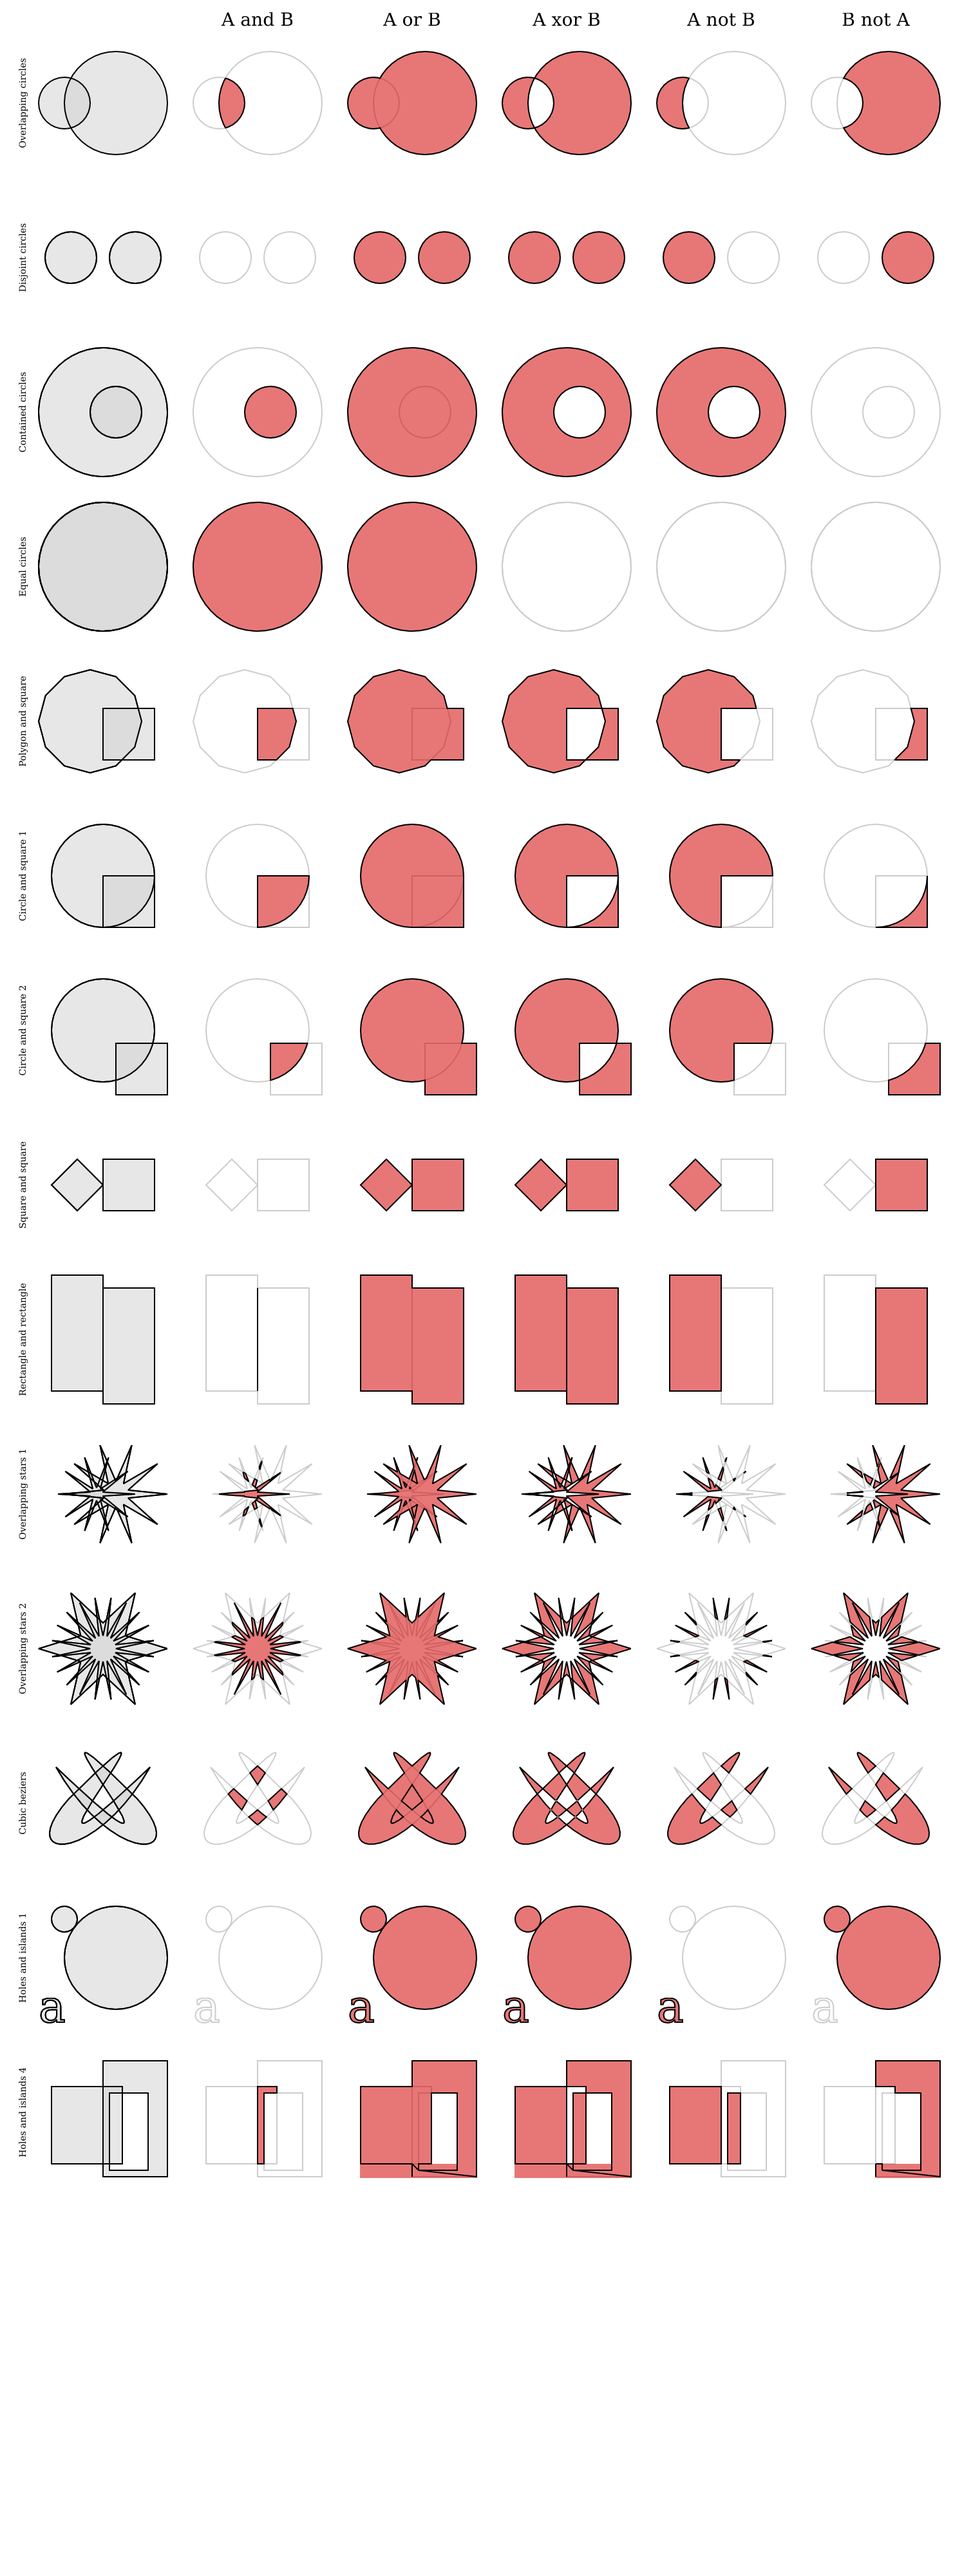
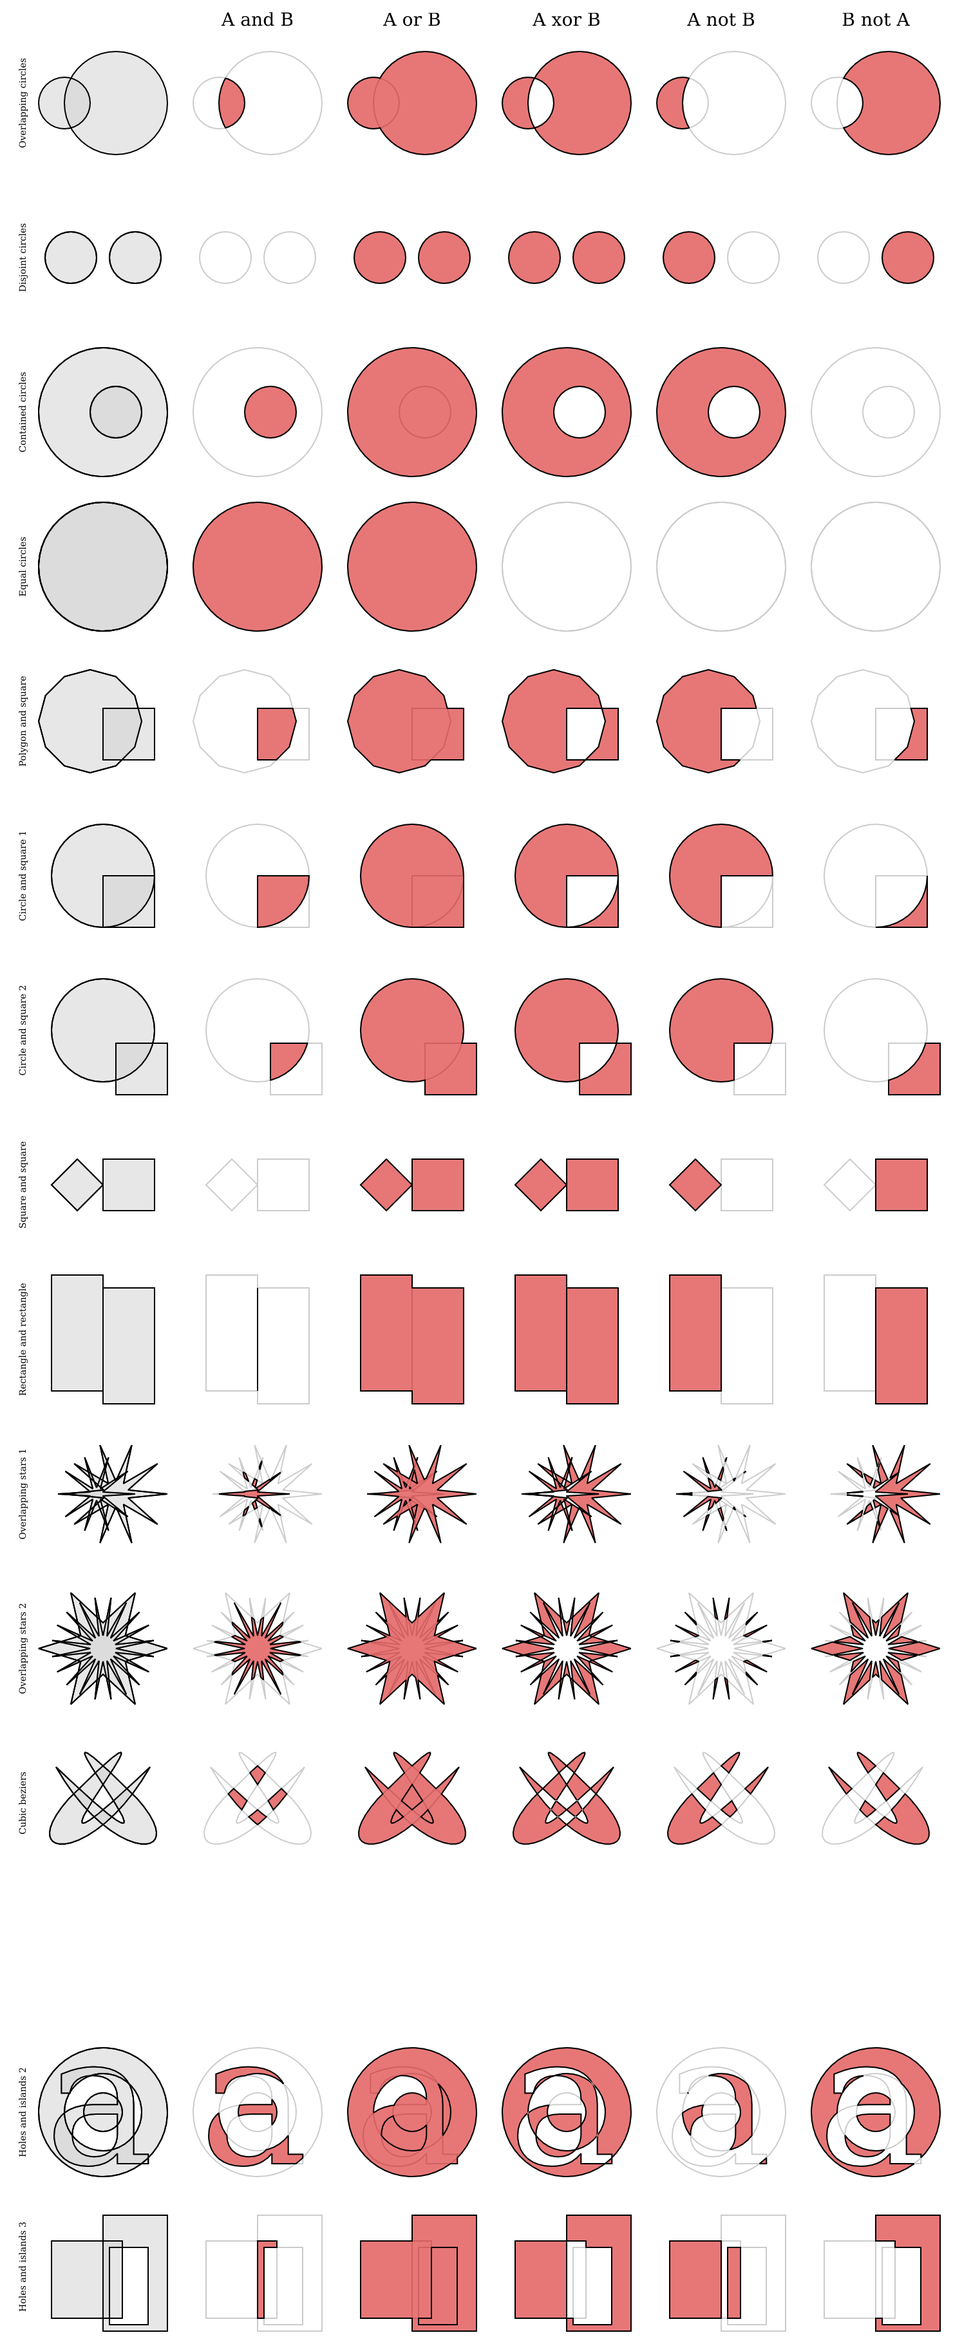
Update docs

diff --git a/resources/docs/boolean/main.go b/resources/docs/boolean/main.go
@@ -10,12 +10,12 @@ var font *canvas.FontFamily
 // Shapes from http://assets.paperjs.org/boolean/
 func main() {
 	font = canvas.NewFontFamily("latin")
-	if err := font.LoadFontFile("/usr/share/fonts/TTF/DejaVuSerif.ttf", canvas.FontRegular); err != nil {
+	if err := font.LoadLocalFont("DejaVuSerif", canvas.FontRegular); err != nil {
 		panic(err)
 	}
 
 	W := 74.0
-	H := 200.0
+	H := 182.0
 
 	c := canvas.New(W, H)
 	ctx := canvas.NewContext(c)
@@ -45,14 +45,21 @@ func main() {
 	bezier = bezier.Transform(canvas.Identity.Scale(0.05, -0.05).Translate(-100.0, -100.0))
 	draw(ctx, H-145.0, "Cubic beziers", bezier.Translate(5.0, 5.0), bezier.Scale(-1.0, 1.0).Translate(5.0, 5.0))
 
-	a, _, _ := font.Face(20.0, canvas.Black, canvas.FontRegular, canvas.FontNormal).ToPath("a")
-	p := canvas.Circle(3.0).Translate(6.0, 5.0)
+	var p *canvas.Path
+	a, _, _ := font.Face(40.0, canvas.Black, canvas.FontRegular, canvas.FontNormal).ToPath("a")
+	p = canvas.Circle(3.0).Translate(6.0, 5.0)
+	p = p.Append(canvas.Circle(1.5).Reverse().Translate(8.0, 7.0))
 	p = p.Append(canvas.Circle(1.0).Translate(2.0, 8.0))
-	draw(ctx, H-157.0, "Holes and islands 1", a, p)
+	//draw(ctx, H-157.0, "Holes and islands 1", a.Translate(1.0,1.0), p)
+
+	p = canvas.Circle(5.0).Translate(5.0, 5.0)
+	p = p.Append(canvas.Circle(3.0).Reverse().Translate(5.0, 5.0))
+	p = p.Append(canvas.Circle(1.5).Translate(5.0, 5.0))
+	draw(ctx, H-169.0, "Holes and islands 2", a.Translate(0.5, 1.0), p)
 
 	p = canvas.Rectangle(5.0, 9.0)
 	p = p.Append(canvas.Rectangle(3.0, 6.0).Translate(0.5, 0.5).Reverse())
-	draw(ctx, H-169.0, "Holes and islands 4", canvas.Rectangle(5.5, 6.0).Translate(1.0, 1.0), p.Translate(5.0, 0.0))
+	draw(ctx, H-181.0, "Holes and islands 3", canvas.Rectangle(5.5, 6.0).Translate(1.0, 1.0), p.Translate(5.0, 0.0))
 
 	renderers.Write("boolean.png", c, canvas.DPMM(20.0))
 }
@@ -76,6 +83,25 @@ func draw(ctx *canvas.Context, y float64, title string, p, q *canvas.Path) {
 	ctx.SetStrokeWidth(0.1)
 	ctx.DrawPath(3.0, y, p)
 	ctx.DrawPath(3.0, y, q)
+
+	//ps, qs := p.Cut(q)
+	//for i, p := range ps {
+	//	if i%2 == 0 {
+	//		ctx.SetStrokeColor(canvas.Green)
+	//	} else {
+	//		ctx.SetStrokeColor(canvas.Red)
+	//	}
+	//	ctx.DrawPath(15.0, y, p)
+	//}
+	//for i, q := range qs {
+	//	if i%2 == 0 {
+	//		ctx.SetStrokeColor(canvas.Green)
+	//	} else {
+	//		ctx.SetStrokeColor(canvas.Red)
+	//	}
+	//	ctx.DrawPath(27.0, y, q)
+	//}
+	//return
 
 	ctx.SetFillColor(canvas.Transparent)
 	ctx.SetStrokeColor(canvas.Hex("#CCC"))

diff --git a/shapes_test.go b/shapes_test.go
@@ -24,8 +24,8 @@ func TestShapes(t *testing.T) {
 	test.T(t, RegularPolygon(4, 0.0, true), &Path{})
 	test.T(t, RegularPolygon(4, 2.0, true), MustParseSVG("M0 2L-2 0L0 -2L2 0z"))
 	test.T(t, RegularPolygon(3, 2.0, true), MustParseSVG("M0 2L-1.7321 -1L1.7321 -1z"))
-	test.T(t, RegularPolygon(3, 2.0, false), MustParseSVG("M2 0L-1 1.7321L-1 -1.7321z"))
+	test.T(t, RegularPolygon(3, 2.0, false), MustParseSVG("M-1.7321 1L0 -2L1.7321 1z"))
 	test.T(t, StarPolygon(2, 4.0, 2.0, true), &Path{})
 	test.T(t, StarPolygon(4, 4.0, 2.0, true), MustParseSVG("M0 4L-1.41 1.41L-4 0L-1.41 -1.41L0 -4L1.41 -1.41L4 0L1.41 1.41z"))
-	test.T(t, StarPolygon(3, 4.0, 2.0, false), MustParseSVG("M4 0L-2 3.4641L-2 -3.4641z"))
+	test.T(t, StarPolygon(3, 4.0, 2.0, false), MustParseSVG("M-3.4641 2L-1.7321 -1L0 -4L1.7321 -1L3.4641 2L0 2z"))
 }
